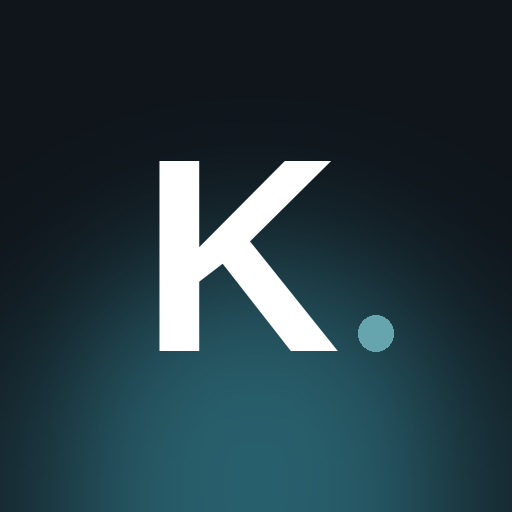
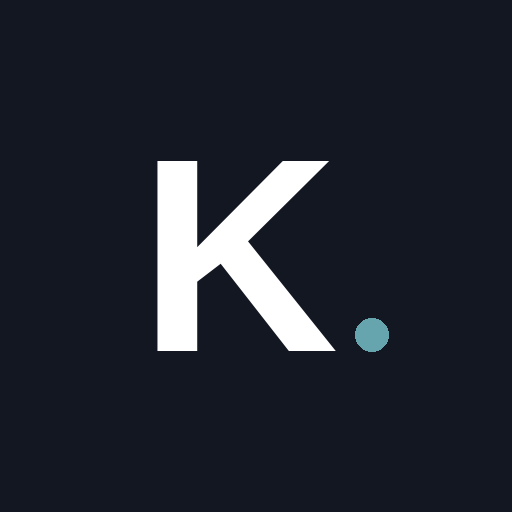
Add files via upload

diff --git a/movil.html b/movil.html
@@ -3,7 +3,7 @@
 <head>
     <meta charset="UTF-8">
     <meta name="viewport" content="width=device-width, initial-scale=1.0, viewport-fit=cover">
-    <meta name="theme-color" content="#0F151B">
+    <meta name="theme-color" content="#131722">
     <meta name="mobile-web-app-capable" content="yes">
     <meta name="apple-mobile-web-app-capable" content="yes">
     <title>KODA</title>
@@ -15,7 +15,7 @@
     <link href="https://fonts.googleapis.com/css2?family=Maven+Pro:wght@400;500;600;700;800;900&display=swap" rel="stylesheet">
     <link rel="stylesheet" href="https://fonts.googleapis.com/css2?family=Material+Symbols+Outlined:opsz,wght,FILL,GRAD@20..48,100..700,0..1,-50..200" />
     <style>
-        :root { --bg:#0F151B; --card:#171E26; --card2:#1D262F; --line:rgba(255,255,255,.08); --txt:#F2F5F7; --mut:#8A98A5; --cy:#66A5AD; --gold:#C1A35F; --red:#D98080; }
+        :root { --bg:#131722; --card:#1E222D; --card2:#2A2E39; --line:rgba(255,255,255,.08); --txt:#F2F5F7; --mut:#8A98A5; --cy:#66A5AD; --gold:#C1A35F; --red:#D98080; }
         * { box-sizing: border-box; -webkit-tap-highlight-color: transparent; }
         html, body { margin: 0; background: var(--bg); color: var(--txt); font-family: 'Maven Pro', system-ui, sans-serif; }
         body { min-height: 100dvh; padding-bottom: calc(84px + env(safe-area-inset-bottom)); overscroll-behavior-y: contain; }
@@ -23,7 +23,7 @@
         button { cursor: pointer; border: 0; background: none; }
         .ms { font-family: 'Material Symbols Outlined'; font-size: 22px; line-height: 1; font-variation-settings: 'FILL' 0, 'wght' 400; }
         .wrap { max-width: 560px; margin: 0 auto; padding: 0 16px; }
-        header { position: sticky; top: 0; z-index: 20; background: rgba(15,21,27,.88); backdrop-filter: blur(14px); padding: calc(14px + env(safe-area-inset-top)) 0 12px; }
+        header { position: sticky; top: 0; z-index: 20; background: rgba(19,23,34,.9); backdrop-filter: blur(14px); padding: calc(14px + env(safe-area-inset-top)) 0 12px; }
         header .wrap { display: flex; align-items: center; justify-content: space-between; }
         .logo { font-weight: 900; font-size: 26px; letter-spacing: -.02em; } .logo i { color: var(--cy); font-style: normal; }
         .icon-btn { width: 40px; height: 40px; border-radius: 12px; display: grid; place-items: center; color: var(--mut); }
@@ -45,14 +45,14 @@
         .dot { width: 38px; height: 38px; border-radius: 12px; background: var(--card2); display: grid; place-items: center; color: var(--cy); flex: none; }
         .bar { height: 6px; background: var(--card2); border-radius: 99px; overflow: hidden; margin-top: 8px; } .bar > div { height: 100%; background: var(--cy); border-radius: 99px; }
         .empty { color: var(--mut); font-size: 14px; text-align: center; padding: 26px 16px; }
-        .tabs { position: fixed; left: 0; right: 0; bottom: 0; z-index: 30; background: rgba(18,25,32,.94); backdrop-filter: blur(16px); border-top: 1px solid var(--line); padding: 8px 8px calc(8px + env(safe-area-inset-bottom)); }
+        .tabs { position: fixed; left: 0; right: 0; bottom: 0; z-index: 30; background: rgba(24,28,40,.95); backdrop-filter: blur(16px); border-top: 1px solid var(--line); padding: 8px 8px calc(8px + env(safe-area-inset-bottom)); }
         .tabs .in { max-width: 560px; margin: 0 auto; display: grid; grid-template-columns: 1fr 1fr 64px 1fr 1fr; align-items: center; }
         .tab { display: flex; flex-direction: column; align-items: center; gap: 3px; color: var(--mut); font-size: 11.5px; font-weight: 600; padding: 6px 0; }
         .tab.on { color: var(--cy); } .tab.on .ms { font-variation-settings: 'FILL' 1, 'wght' 500; }
         .fab { width: 54px; height: 54px; border-radius: 18px; background: var(--cy); color: #0F151B; display: grid; place-items: center; margin: -22px auto 0; box-shadow: 0 8px 24px rgba(102,165,173,.35); }
         .fab .ms { font-size: 28px; }
         .sheet-bg { position: fixed; inset: 0; z-index: 40; background: rgba(0,0,0,.55); opacity: 0; pointer-events: none; transition: opacity .2s; }
-        .sheet { position: fixed; left: 0; right: 0; bottom: 0; z-index: 41; background: #151C23; border-radius: 26px 26px 0 0; border-top: 1px solid var(--line); padding: 10px 18px calc(18px + env(safe-area-inset-bottom)); transform: translateY(105%); transition: transform .26s cubic-bezier(.2,.8,.2,1); max-height: 92dvh; overflow: auto; }
+        .sheet { position: fixed; left: 0; right: 0; bottom: 0; z-index: 41; background: #1A1F2B; border-radius: 26px 26px 0 0; border-top: 1px solid var(--line); padding: 10px 18px calc(18px + env(safe-area-inset-bottom)); transform: translateY(105%); transition: transform .26s cubic-bezier(.2,.8,.2,1); max-height: 92dvh; overflow: auto; }
         body.sheet-on .sheet-bg { opacity: 1; pointer-events: auto; } body.sheet-on .sheet { transform: none; }
         .grab { width: 40px; height: 4px; border-radius: 9px; background: rgba(255,255,255,.18); margin: 0 auto 14px; }
         .field { display: block; margin-top: 12px; } .field > span { display: block; font-size: 12.5px; color: var(--mut); font-weight: 600; margin: 0 2px 6px; }
@@ -80,7 +80,7 @@
         .send { width: 46px; height: 46px; border-radius: 14px; background: var(--cy); color: #0F151B; display: grid; place-items: center; flex: none; }
         .dots span { display: inline-block; width: 6px; height: 6px; margin: 0 2px; border-radius: 50%; background: var(--mut); animation: bl 1.1s infinite; } .dots span:nth-child(2) { animation-delay: .15s; } .dots span:nth-child(3) { animation-delay: .3s; }
         @keyframes bl { 0%, 80%, 100% { opacity: .25; } 40% { opacity: 1; } }
-        #toast { position: fixed; left: 50%; bottom: calc(100px + env(safe-area-inset-bottom)); transform: translate(-50%, 20px); background: #222C36; border: 1px solid var(--line); padding: 11px 16px; border-radius: 14px; font-size: 14px; font-weight: 600; opacity: 0; pointer-events: none; transition: .25s; z-index: 60; }
+        #toast { position: fixed; left: 50%; bottom: calc(100px + env(safe-area-inset-bottom)); transform: translate(-50%, 20px); background: #2A2E39; border: 1px solid var(--line); padding: 11px 16px; border-radius: 14px; font-size: 14px; font-weight: 600; opacity: 0; pointer-events: none; transition: .25s; z-index: 60; }
         #toast.on { opacity: 1; transform: translate(-50%, 0); }
         .pull { text-align: center; color: var(--mut); font-size: 12px; margin-top: 18px; }
     </style>

diff --git a/koda-api.js b/koda-api.js
@@ -7,6 +7,12 @@
         const conectado = !!(c && c.url && c.token);
         // Sin sesión: todas las páginas (menos login.html) llevan al inicio de sesión
         if (!conectado && !window.KODA_PUBLICA) { location.replace('login.html'); return; }
+        // En un teléfono se usa siempre la app móvil (?web=1 para forzar la versión de escritorio)
+        try {
+            if (new URLSearchParams(location.search).get('web') === '1') sessionStorage.setItem('koda_web', '1');
+            const esTelefono = matchMedia('(max-width: 820px)').matches && matchMedia('(pointer: coarse)').matches;
+            if (conectado && esTelefono && !window.KODA_PUBLICA && !window.KODA_SIN_NUBE && sessionStorage.getItem('koda_web') !== '1') { location.replace('movil.html'); return; }
+        } catch (e) {}
         if (window.KODA_SIN_NUBE || !conectado) return;
         if (localStorage.getItem('koda_copia')) return;   // hay copia local: la página se muestra al instante
         const st = document.createElement('style');

diff --git a/login.html b/login.html
@@ -210,7 +210,7 @@
 
         // En la app instalada del celular se abre la versión móvil; en la computadora, el panel completo
         function lgDestino() {
-            try { if (matchMedia('(display-mode: standalone)').matches || new URLSearchParams(location.search).get('m') === '1') return 'movil.html'; } catch (e) {}
+            try { if (matchMedia('(display-mode: standalone)').matches || new URLSearchParams(location.search).get('m') === '1' || (matchMedia('(max-width: 820px)').matches && matchMedia('(pointer: coarse)').matches)) return 'movil.html'; } catch (e) {}
             return 'index.html';
         }
 
